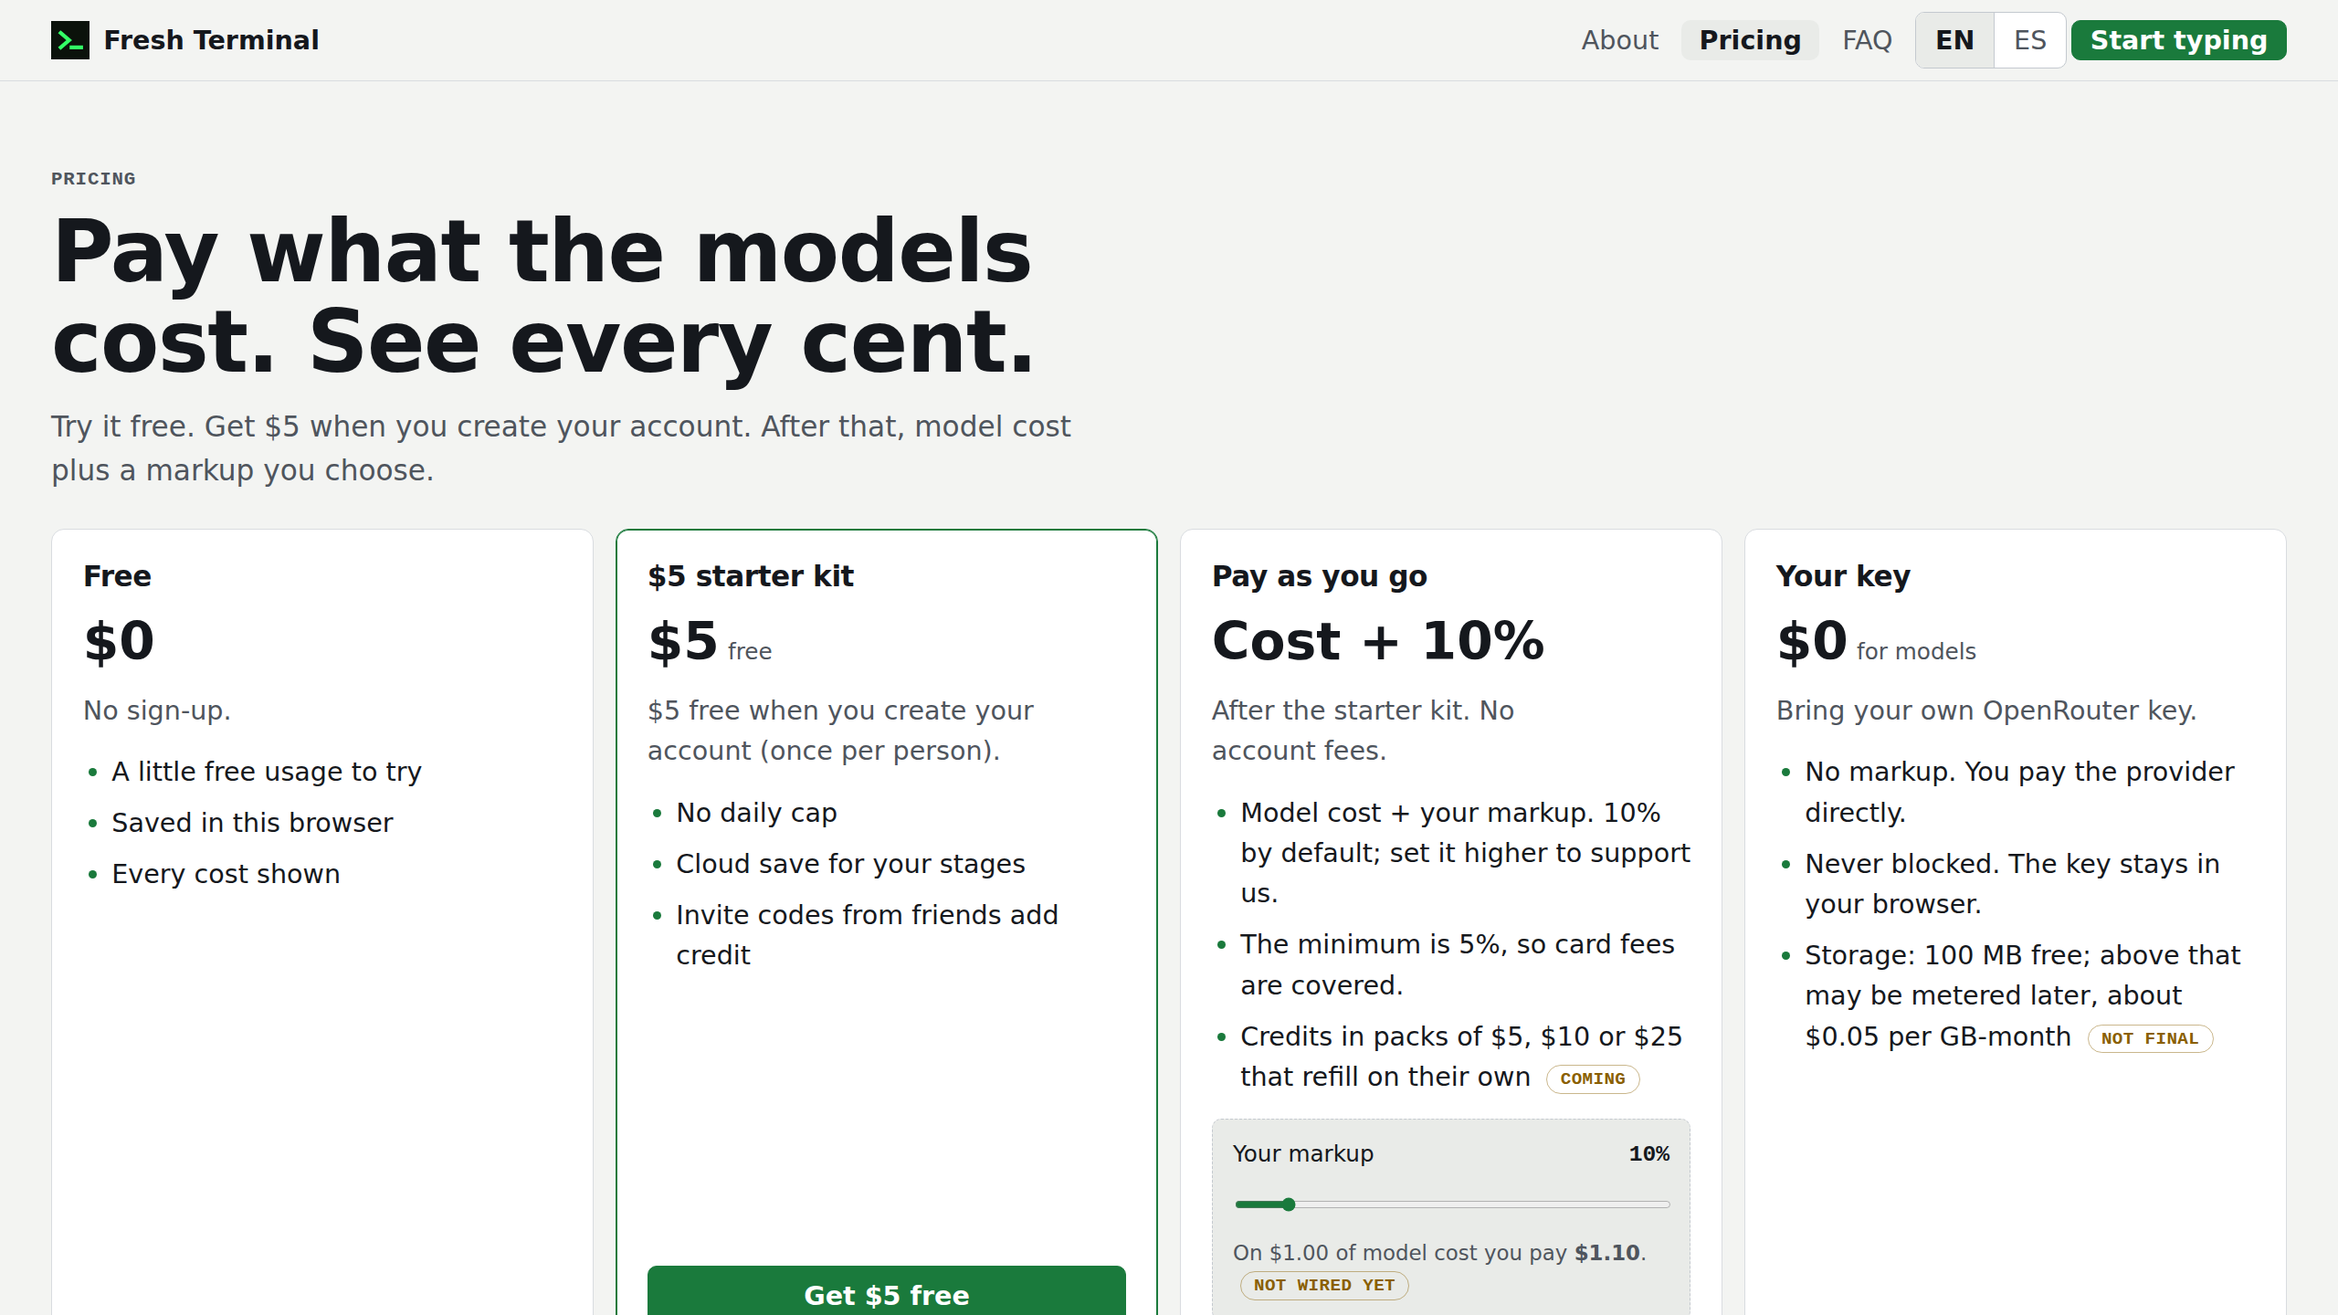
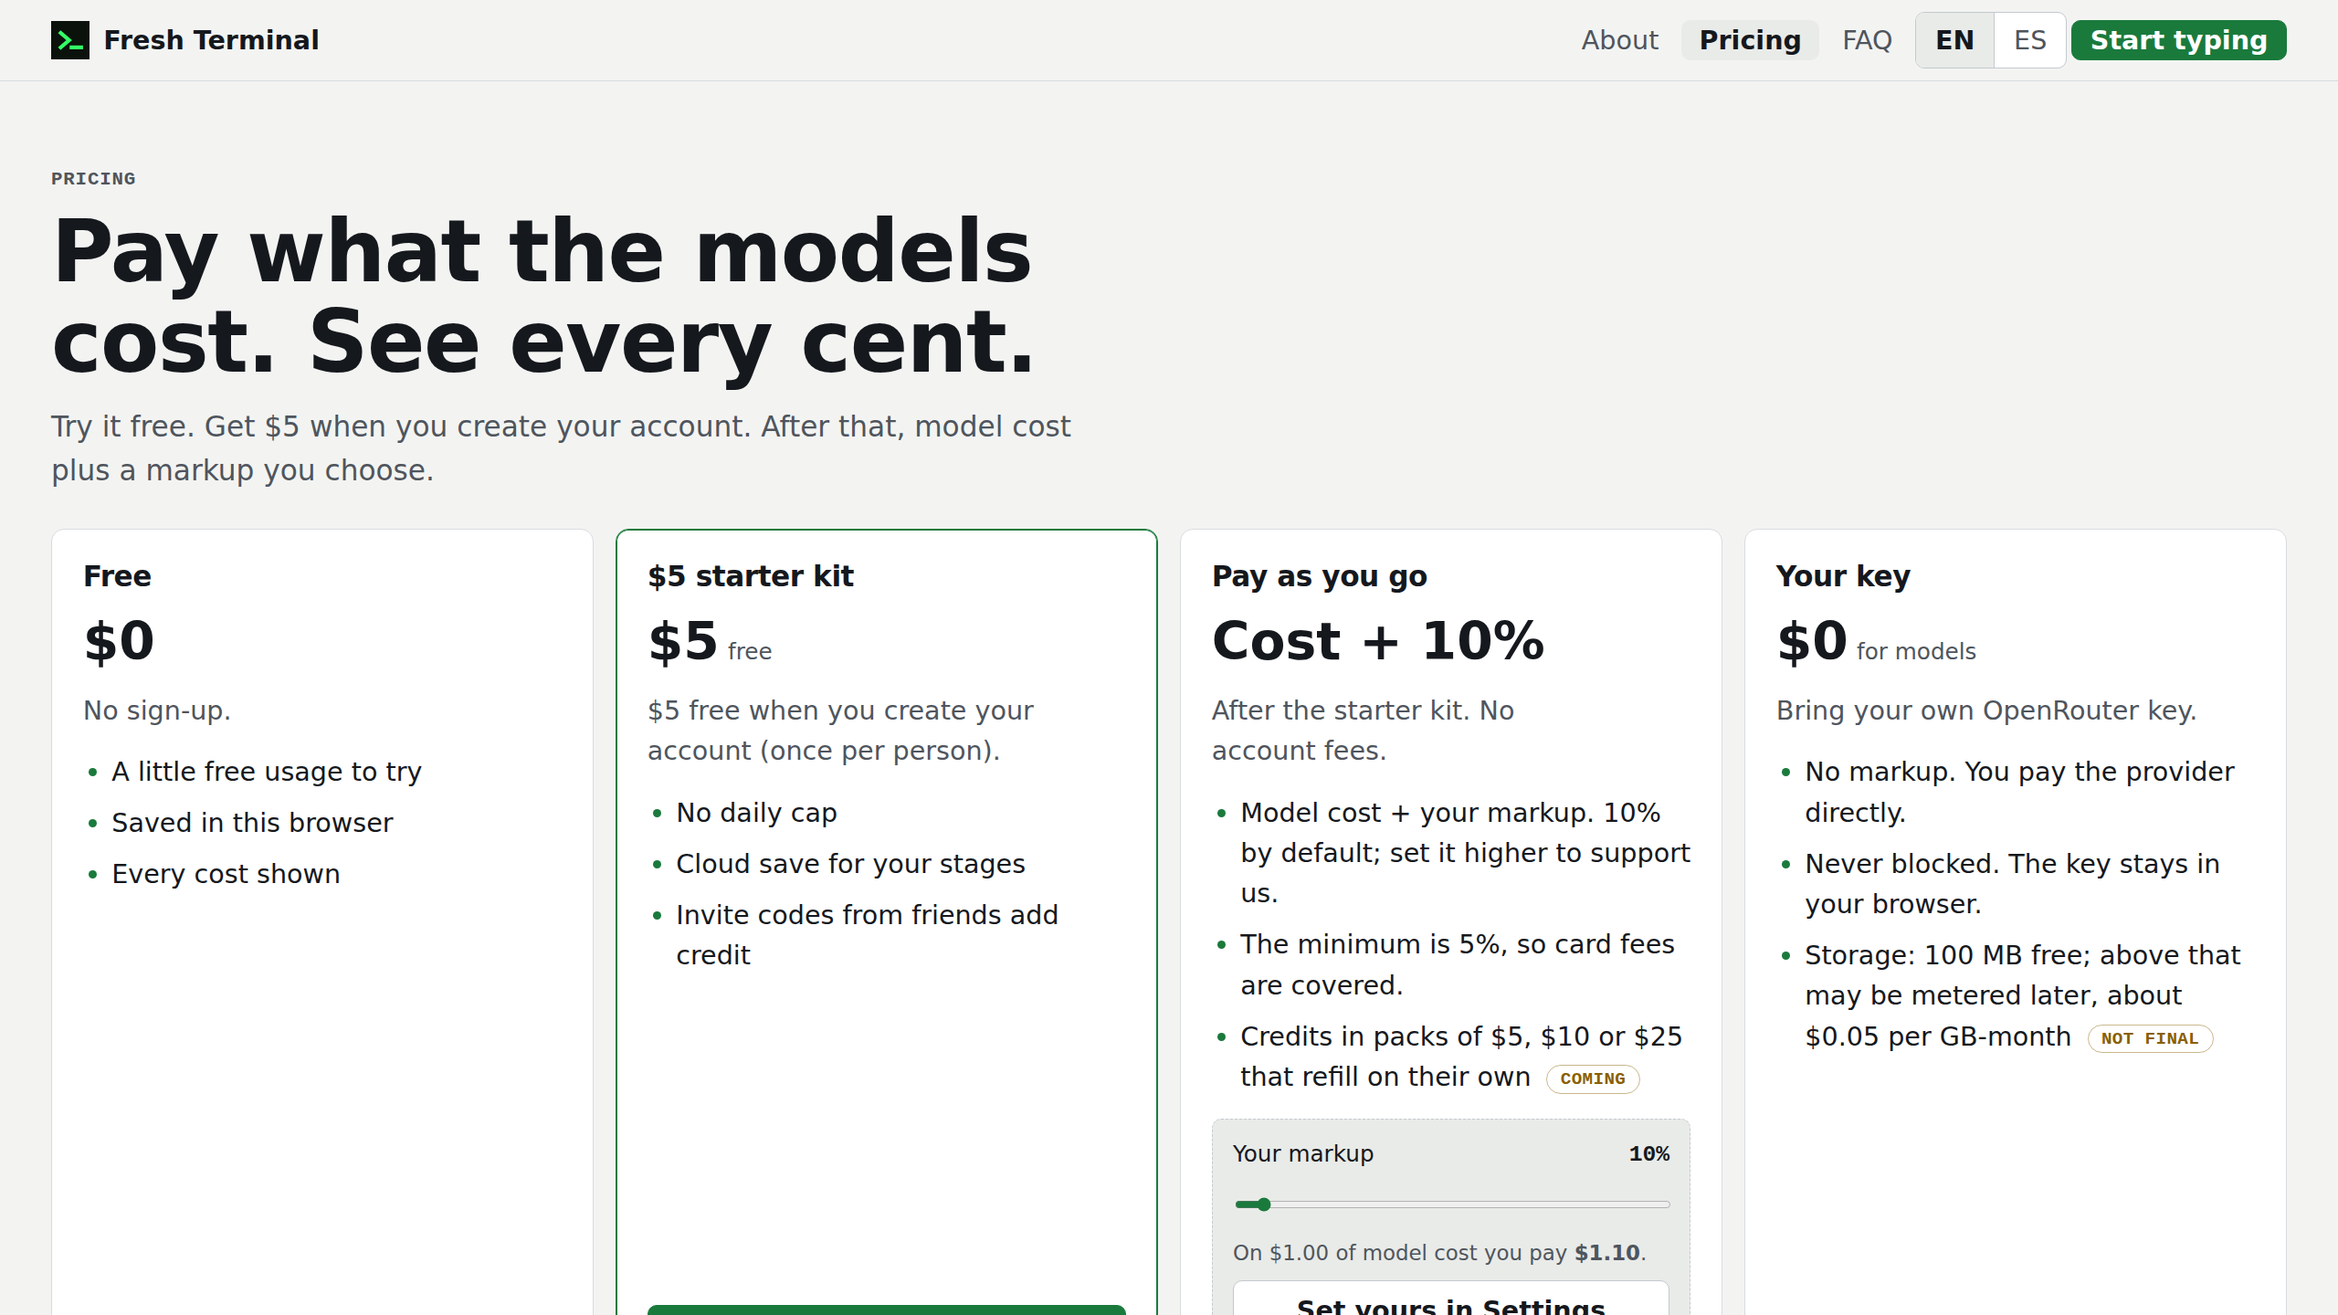
Pricing: the markup slider shows the math and links to Settings (C-105 is live); a Tags graph scene on /about
Claude-Session: https://claude.ai/code/session_018fAit84S4QJuASwudzAuQz

Changed region(s): [[0.25, 0.9375, 0.5, 1.0], [0.5312, 0.9688, 0.6875, 1.0], [0.5312, 0.9062, 0.5625, 0.9375]]

diff --git a/terminal/app/public/sales/i18n-es.js b/terminal/app/public/sales/i18n-es.js
@@ -18,7 +18,6 @@ window.FT_ES = {
   'pill.live': 'en vivo',
   'pill.experimental': 'experimental',
   'pill.soon': 'muy pronto',
-  'pill.notWired': 'aún no conectado',
   'pill.notFinal': 'no definitivo',
   'tagline': 'Evolucionamos juntos.',
   'foot.label': 'Pie de página',
@@ -38,6 +37,7 @@ window.FT_ES = {
   'shot.offline': 'Una instrucción escrita sin conexión espera en el escenario, marcada en cola, con Enviar ahora y Descartar.',
   'shot.library': 'Una terminal con piel de la biblioteca, Papel y máquina de escribir: la fecha de hoy, un tema cambiado y deshecho, y la siguiente instrucción con etiquetas.',
   'shot.replay': 'Repetición (experimental): el escenario reconstruido en un paso de la sesión, con una barra para recorrer cada paso.',
+  'shot.tags': 'La página de Etiquetas como grafo: cada etiqueta de lo escrito, del tamaño de sus usos y del color de su tipo, unidas cuando compartieron una línea.',
   'shot.phone': 'Fresh Terminal en un teléfono: el escenario con una página nueva y un Deshacer, y la caja de texto abajo con etiquetas.',
 
   // about
@@ -61,6 +61,8 @@ window.FT_ES = {
   'f2.p': 'Nombres, fechas y acciones se iluminan mientras escribes. Toca una etiqueta para cambiar lo que significa.',
   'f3.t': 'Renombra con un clic',
   'f3.p': 'Haz clic en el nombre del escenario en la barra superior y escribe uno nuevo.',
+  'f9.t': 'Tus etiquetas como grafo',
+  'f9.p': 'Cada etiqueta que escribiste, unidas cuando compartieron una línea. O míralas como tabla, lista, tablero o línea de tiempo.',
   'f4.t': 'Acciones',
   'f4.p': 'Todo lo que pediste y todo lo que hizo, con estado, modelo y costo. Lista, tabla, tablero o línea de tiempo.',
   'f5.t': 'Pieles y la biblioteca',
@@ -131,8 +133,7 @@ window.FT_ES = {
   'plan.payg.3': 'Créditos en paquetes de $5, $10 o $25 que se recargan solos',
   'markup.label': 'Tu margen',
   'markup.ex': 'Por $1.00 de costo del modelo pagas',
-  'markup.tip': 'Aún no conectado: es una vista previa. El ajuste llega con los cobros.',
-  'markup.toast': 'Solo una vista previa: elegir tu margen aún no está conectado. Llega con los cobros.',
+  'markup.set': 'Elige el tuyo en Ajustes',
   'plan.payg.cta': 'Comprar créditos',
   'payg.tip': 'Aún no conectado: los paquetes de créditos con Clerk llegan muy pronto. Mientras tanto, el kit de inicio y tu clave funcionan.',
   'payg.toast': 'Comprar créditos aún no está conectado. Los paquetes llegan muy pronto; mientras tanto usa el kit de inicio de $5 o tu propia clave.',
@@ -172,7 +173,7 @@ window.FT_ES = {
   'q3': '¿Quién recibe los $5?',
   'a3': '<p>Quien se registra por primera vez, una vez por persona.</p>',
   'q4': '¿Cuánto cuesta después?',
-  'a4': '<p>El costo del modelo más tu margen: 10% por defecto, y puedes subirlo para apoyarnos. El mínimo es 5%, así se cubren las comisiones de tarjeta. Sin cuotas de cuenta.</p><p>Primero compras créditos, en paquetes de $5, $10 o $25 que se recargan solos. Llegan muy pronto; la compra aún no está conectada.</p>',
+  'a4': '<p>El costo del modelo más tu margen: 10% por defecto, y puedes subirlo en Ajustes para apoyarnos. El mínimo es 5%, así se cubren las comisiones de tarjeta. Sin cuotas de cuenta.</p><p>Primero compras créditos, en paquetes de $5, $10 o $25 que se recargan solos. Llegan muy pronto; la compra aún no está conectada.</p>',
   'q5': '¿Qué es “tu clave”?',
   'a5': '<p>Tu propia clave de OpenRouter. Pégala en Ajustes; se queda en tu navegador, las llamadas van directo a OpenRouter y no hay margen. Nunca te bloqueamos.</p><p>El almacenamiento de más de 100 MB podría medirse más adelante, unos $0.05 por GB al mes (no definitivo, no se cobra).</p>',
   'q6': '¿Mis datos son privados?',

diff --git a/terminal/app/public/pricing.html b/terminal/app/public/pricing.html
@@ -63,10 +63,15 @@
     },
     {
       "id": "sales.markup.preview",
-      "intent": "preview a markup between 5% and 50% (not saved)",
+      "intent": "see what a markup between 5% and 100% costs on $1 of model spend",
       "permission": "anyone",
-      "notWired": true,
       "target": "#markup"
+    },
+    {
+      "id": "sales.markup.set",
+      "intent": "set my markup in Settings (signed in)",
+      "permission": "signed-in",
+      "target": "a[data-action='sales.markup.set']"
     },
     {
       "id": "sales.payment.add",
@@ -156,10 +161,11 @@
             <li data-i18n="plan.payg.2">The minimum is 5%, so card fees are covered.</li>
             <li><span data-i18n="plan.payg.3">Credits in packs of $5, $10 or $25 that refill on their own</span> <span class="pill inline" data-status="soon" data-i18n="pill.soon">coming</span></li>
           </ul>
-          <div class="markup" data-not-wired-block>
+          <div class="markup">
             <label for="markup"><span data-i18n="markup.label">Your markup</span> <output id="markup-out" for="markup">10%</output></label>
-            <input id="markup" type="range" min="5" max="50" step="1" value="10" aria-describedby="markup-ex" data-tip="Not wired yet: a preview. The setting arrives with billing." data-i18n-attr="data-tip:markup.tip">
-            <p class="ex" id="markup-ex"><span data-i18n="markup.ex">On $1.00 of model cost you pay</span> <b data-markup-total>$1.10</b>. <span class="pill inline" data-status="not-wired" data-i18n="pill.notWired">not wired yet</span></p>
+            <input id="markup" type="range" min="5" max="100" step="1" value="10" aria-describedby="markup-ex">
+            <p class="ex" id="markup-ex"><span data-i18n="markup.ex">On $1.00 of model cost you pay</span> <b data-markup-total>$1.10</b>.</p>
+            <a class="btn" href="./?open=settings" data-action="sales.markup.set" data-i18n="markup.set">Set yours in Settings</a>
           </div>
           <div class="ctas"><button type="button" class="btn" data-action="sales.payment.add" data-not-wired
             data-tip="Not wired yet: credit packs through Clerk are coming soon. Until then, the starter kit and your key both work."

diff --git a/terminal/app/public/about.html b/terminal/app/public/about.html
@@ -148,6 +148,11 @@
           <p data-i18n="f3.p">Click a stage’s name in the top bar and type a new one.</p>
         </article>
         <article class="card">
+          <figure class="shot"><img data-shot="tags" src="sales/img/tags.jpg" width="2160" height="1350" alt="The Tags page as a graph: every tag from what was typed, sized by how often it appears and coloured by kind, linked when two tags shared a line." data-i18n-attr="alt:shot.tags" loading="lazy"></figure>
+          <header><h3 data-i18n="f9.t">Your tags as a graph</h3><span class="pill" data-status="live" data-i18n="pill.live">live</span></header>
+          <p data-i18n="f9.p">Every tag you have typed, linked when they shared a line. Or see them as a table, list, board or timeline.</p>
+        </article>
+        <article class="card">
           <figure class="shot"><img data-shot="actions" src="sales/img/actions.jpg" width="2160" height="1350" alt="Actions as a timeline: every prompt, reply and edit on this stage as a row with its status, model and cost, and arrows to what each one follows." data-i18n-attr="alt:shot.actions" loading="lazy"></figure>
           <header><h3 data-i18n="f4.t">Actions</h3><span class="pill" data-status="live" data-i18n="pill.live">live</span></header>
           <p data-i18n="f4.p">Everything you asked and everything it did, with status, model and cost. List, table, board or timeline.</p>

diff --git a/terminal/app/public/sales/sales.js b/terminal/app/public/sales/sales.js
@@ -146,11 +146,10 @@
     document.querySelectorAll('[data-offer]').forEach(function (el) { el.hidden = true; });
   }
 
-  // Pay what you want: an illustrative slider (not wired yet; nothing is saved).
+  // Pay what you want: this slider shows the math; the real setting is in the app's Settings (C-105).
   var markup = document.getElementById('markup');
   if (markup) {
     markup.min = String(PAYG_FEE.min);
-    var shownToast = false;
     var update = function () {
       var pct = Number(markup.value);
       var out = document.getElementById('markup-out');
@@ -158,11 +157,6 @@
       document.querySelectorAll('[data-markup-total]').forEach(function (el) { el.textContent = '$' + (1 + pct / 100).toFixed(2); });
     };
     markup.addEventListener('input', update);
-    markup.addEventListener('change', function () {
-      if (shownToast) return;
-      shownToast = true;
-      toast(root.getAttribute('lang') === 'es' ? (window.FT_ES || {})['markup.toast'] || '' : 'A preview only: choosing your markup is not wired yet. It arrives with billing.');
-    });
     update();
   }
 

diff --git a/terminal/app/src/lib/arrival.ts b/terminal/app/src/lib/arrival.ts
@@ -1,6 +1,6 @@
 /**
  * Links from the sales pages (/about, /pricing, /faq) open the app with an
- * intent (2026-09-29): ?signin=1 opens sign-in, ?open=key opens Settings on the
+ * intent (2026-09-29): ?signin=1 opens sign-in, ?open=key or ?open=settings opens Settings on the
  * key. The parameter is removed from the address bar once read.
  */
 export type ArrivalIntent = 'signin' | 'key';
@@ -9,9 +9,9 @@ export function arrivalIntent(search: string): { intent: ArrivalIntent | null; r
   const params = new URLSearchParams(search);
   let intent: ArrivalIntent | null = null;
   if (params.get('signin') === '1') intent = 'signin';
-  else if (params.get('open') === 'key') intent = 'key';
+  else if (params.get('open') === 'key' || params.get('open') === 'settings') intent = 'key';
   params.delete('signin');
-  if (params.get('open') === 'key') params.delete('open');
+  if (params.get('open') === 'key' || params.get('open') === 'settings') params.delete('open');
   const rest = params.toString();
   return { intent, rest: rest ? `?${rest}` : '' };
 }

diff --git a/terminal/app/public/faq.html b/terminal/app/public/faq.html
@@ -120,7 +120,7 @@
         </details>
         <details id="cost">
           <summary data-i18n="q4">What does it cost after that?</summary>
-          <div class="a" data-i18n="a4"><p>Model cost plus your markup: 10% by default, and you can set it higher to support us. The minimum is 5%, so card fees are covered. No account fees.</p><p>You buy credits first, in packs of $5, $10 or $25 that refill on their own. Those are coming soon; buying is not wired yet.</p></div>
+          <div class="a" data-i18n="a4"><p>Model cost plus your markup: 10% by default, and you can set it higher in Settings to support us. The minimum is 5%, so card fees are covered. No account fees.</p><p>You buy credits first, in packs of $5, $10 or $25 that refill on their own. Those are coming soon; buying is not wired yet.</p></div>
         </details>
         <details id="key">
           <summary data-i18n="q5">What is “your key”?</summary>

diff --git a/terminal/app/src/lib/arrival.test.ts b/terminal/app/src/lib/arrival.test.ts
@@ -5,6 +5,7 @@ describe('arrival intent from the sales pages', () => {
   it('reads ?signin=1 and ?open=key and keeps other parameters', () => {
     expect(arrivalIntent('?signin=1')).toEqual({ intent: 'signin', rest: '' });
     expect(arrivalIntent('?open=key&prompt=hi')).toEqual({ intent: 'key', rest: '?prompt=hi' });
+    expect(arrivalIntent('?open=settings')).toEqual({ intent: 'key', rest: '' });
     expect(arrivalIntent('?lang=es&signin=1')).toEqual({ intent: 'signin', rest: '?lang=es' });
   });
 

diff --git a/terminal/docs/reference/surfaces.md b/terminal/docs/reference/surfaces.md
@@ -14,7 +14,7 @@ Honest status: most of this is planned. What exists is listed as such.
 - **Exists (Actions, 2026-09-29, C-090, C-095):** `window.__actions.pages.actions` (`actions.open`, `actions.view`, `actions.filter.text|status|stage|model`, `actions.sort`, `actions.resize`); the `ft:action` runner opens it with `actions.open` (`plan.open` opens the dev project plan). Typing "undo" / "redo" (or "deshacer" / "rehacer") is a local command (`edit.undo.typed`). Reply headers carry `meta.ledger_ids`, so any agent can join a reply to its ledger entries. Pure functions for agents and tests: `actionRows()`, `filterRows()`, `sortRows()`, `rowFacets()` in `app/src/actions-view/rows.ts`. CLI: `node scripts/qa-c095.mjs [--base <url>] [--out <dir>]`.
 - **Exists (pass 5):** ops `skin.apply {skin}` and `skin.clear {target}` (tools `skin_apply`, `skin_clear`); `shared/src/refine` exports `refine()` for any agent that wants the best-of-3 loop with its own generate and score functions. Actions `skin.run`, `skin.stop`, `skin.pick`.
 - **Exists (sales pages, 2026-09-29, C-097):** `/about`, `/pricing`, `/faq` declare their actions in `#page-actions` and expose `window.__actions = { page, version, list(), run(id) }`; `ft:action` runs `sales.lang.toggle`, `sales.lang.en`, `sales.lang.es`. Ids: `sales.start`, `sales.signin`, `sales.key.use`, `sales.payment.add` (not wired), `sales.teams.notify` (not wired), `sales.nav`, `sales.lang.toggle`, `sales.freshstack.open`, `sales.faq.open`, `sales.skip`. The app reads `?signin=1` (opens sign-in) and `?open=key` (opens Settings). Share tags: `shared/src/share.ts`, `pnpm -C terminal share:sync`; card `pnpm -C terminal og:card`.
-- **Exists (sales pages v2, C-101):** new action `sales.markup.preview` (not wired), `sales.signin` now means "get $5 free (first sign-up) or sign in". `localStorage["ft.hasSignedIn"]` = "1" after a first sign-in on the device (app `auth/firstSignIn.ts`); the app and the sales pages read it. CLI: `pnpm -C terminal sales:shots [--check]` writes `app/public/sales/img/*.jpg` and `shots.json`.
+- **Exists (sales pages v2, C-101):** actions `sales.markup.preview` and `sales.markup.set` (opens Settings with `?open=settings`), `sales.signin` now means "get $5 free (first sign-up) or sign in". `localStorage["ft.hasSignedIn"]` = "1" after a first sign-in on the device (app `auth/firstSignIn.ts`); the app and the sales pages read it. CLI: `pnpm -C terminal sales:shots [--check]` writes `app/public/sales/img/*.jpg` and `shots.json`.
 - **Exists (share previews, C-102):** `/og/<slug>.png` for every public page; tags in each page head at build (`scripts/share-pages.ts`). `/canvas`, `/actions`, `/tags` are served from `dist/<name>.html` (the app with its own head).
 - **Planned:** `window.__actions.run(id, args)` over the same runner; a WebMCP manifest generated from the registry and the op tools.
 

diff --git a/terminal/docs/changelog/0018.md b/terminal/docs/changelog/0018.md
@@ -13,3 +13,8 @@ Date: 2026-09-29. Model: Opus 5.5. Prompts: Canon 95–100. Canon C-101.
 ## Gate
 
 Recorded in the commit: typecheck, vitest, build, `check:responsive` (all pages, seven widths), `sales:shots` 11 of 11.
+
+## Follow-up (2026-09-29 07:00 UTC)
+
+- The markup setting is live (C-105: `GET/PUT /me/markup` answers 401 `sign_in_required` without a session, `/health` reports `markup.margin_bp` 1000, the Settings slider is in the live bundle). /pricing drops "not wired yet" from its slider (it shows the math, 5% to 100%) and links to Settings with `?open=settings` (the app now takes `open=settings` as well as `open=key`). Not checked with a signed-in user from here (no session); no charges involved.
+- `sales:shots` has a 12th scene, `tags` (the /tags graph after five sample lines), shown on /about as "Your tags as a graph".
